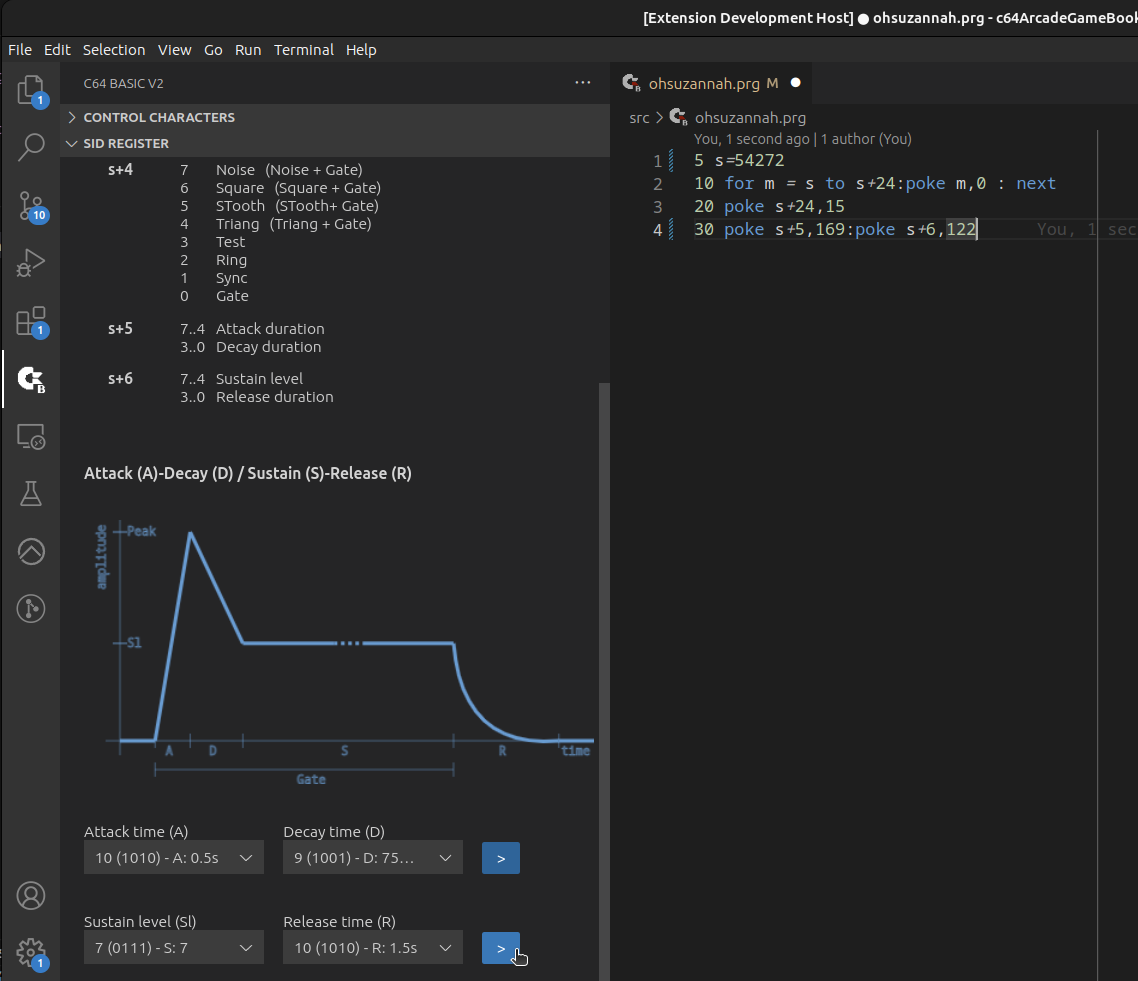
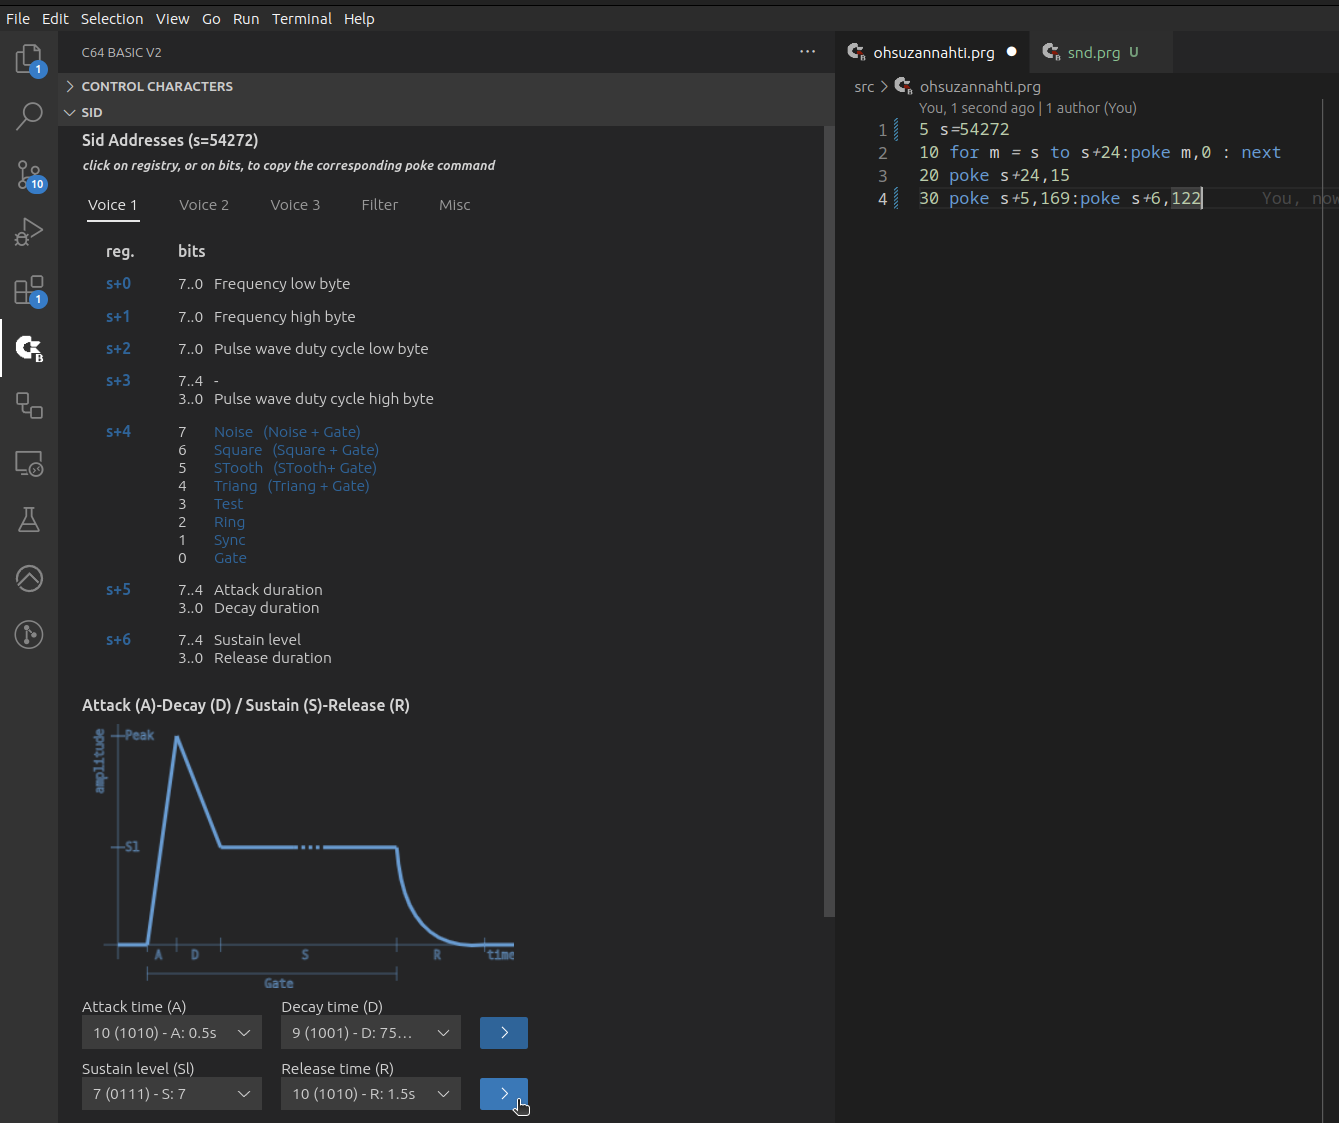
README editing

diff --git a/README.md b/README.md
@@ -1,8 +1,8 @@
 ![c64basicv2 logo](https://raw.githubusercontent.com/gverduci/c64basicv2/main/images/c64basicv2_logo.png)
 
 # **** COMMODORE 64 BASIC V2 **** (c64basicv2) Visual Studio Code Extension
-
-This extension helps you to write *Commodore 64 basic v2* programs (.prg or .bas extension). It provides you: syntax highlighting, snippets, file icons, a theme, tasks, rulers, commands, a control characters view, and a simple preview.
+## Introduction
+This extension helps you to write *Commodore 64 basic v2* programs (.prg or .bas extension). It provides you: syntax highlighting, snippets, file icons, a theme, tasks, rulers, commands, different views in the Primary Sidebar, and a simple preview.
 
 Rules for snippets come from the following pages of [C64-Wiki](https://www.c64-wiki.com/):
 - [BASIC](https://www.c64-wiki.com/wiki/BASIC#Overview_of_BASIC_Version_2.0_.28second_release.29_Commands) 
@@ -16,8 +16,8 @@ You might follow this process to develop your program:
         \src -> source programs
 
 2. write the program;
-3. test it with [Vice](https://vice-emu.sourceforge.io/) using the "Convert and Run" command;
-4. create a d64 image using the "created64.sh" script (see next sections of this README);
+3. test it with [Vice](https://vice-emu.sourceforge.io/) using the "Convert and Run" (F5) command;
+4. create a d64 image using the "created64.sh" script (see [Other usefull info and script](#other-usefull-info-and-script) sections of this README);
 5. use this d64 image with a sd2iec device;
 6. run it on the real c64 hardware.
 
@@ -37,17 +37,18 @@ npx yo c64basicv2
 
 The provided features are:
 
-- Syntax highlighting
-- Snippets for the main commands and control characters
+- [Syntax highlighting](#syntax-highlighting)
+- [Snippets for the main commands](#snippets)
+- [Snippets for control characters](#snippets-for-control-characters)
 - File icons
 - Theme
 - Rulers: 40th and 80th column
 - Tasks: suggested in this README
-- Command: Automatic Proofreader, Convert, Convert and Run
 - Keyboard Shortcuts
+- Command: Automatic Proofreader, Convert, Convert and Run
 - Control character view in the Primary Sidebar 
-- Sid info view (address and ADSR calculator) in the Primary Sidebar  
-- Code preview
+- Sid info view (address, ADSR calculator and notes) in the Primary Sidebar  
+- [Code preview](#code-preview)
 
 ### Syntax highlighting
 An example of syntax highlighting is:
@@ -65,9 +66,9 @@ Control characters in c64 basic are special characters like this:
 
 ![c64basicv2 logo](https://raw.githubusercontent.com/gverduci/c64basicv2/main/images/clrCtrlChar.png)
 
-Books and old magazines represent special characters using the symbolic syntax: {ctrl character name}. For example, the previous character is written with this syntax: {clr}.
+Books and old magazines represent special characters using a symbolic syntax: {ctrl character name}. For example, the previous character is written with this syntax: {clr}.
 
-If you use this control character in a print statement (print "{clr}"), c64 clears the screen.
+If you use this control character in a print statement (print "{clr}"), C64 clears the screen.
 
 You can find the list of control characters on this page: [Control character](https://www.c64-wiki.com/wiki/control_character).
 
@@ -126,22 +127,27 @@ Hit F1, search "Convert and Run" then hit enter.
 ### CHARACTER view on the Primary Sidebar 
 Using the Control characters view, you can visually add a control character:
 
-![c64basicv2 Control Characters View](https://raw.githubusercontent.com/gverduci/c64basicv2/main/images/c64basicv2_ctrlCharView.png)
+![c64basicv2 Control Characters View](images/c64basicv2_ctrlCharView.png)
 
 Click on the character to add the corresponding symbol in the code, or click on the number to add the chr$ command.
 
 The font is "Pet Me 64", released by [Kreative Korporation](https://www.kreativekorp.com/software/fonts/c64/).
 
-### SID REGISTER view (address and ADSR calculator) in the Primary Sidebar
-Using this view, you can show Sid registries and add the poke command directly in the code:
+### SID view (address, ADSR calculator and notes) in the Primary Sidebar
+Using this view, you can
+- (first section) show Sid registries and add the poke command directly in the code:
 
-![c64basicv2 Control Characters View](https://raw.githubusercontent.com/gverduci/c64basicv2/main/images/c64basicv2_sidRegView.png)
+![c64basicv2 Sid Registries](images/c64basicv2_sidRegView.png)
 
-The ADSR section allows you to select the desired envelope and add the calculated value in the code:
+- (section ADSR) select the desired envelope and add the calculated value in the code:
 
-![c64basicv2 Control Characters View](https://raw.githubusercontent.com/gverduci/c64basicv2/main/images/c64basicv2_sidADSRView)
+![c64basicv2 ADSR](images/c64basicv2_sidADSRView.png)
 
-### Preview
+- (section Notes) generate data for a melody:
+
+![c64basicv2 Notes](images/c64basicv2_sidNotesView.png)
+
+### Code Preview
 Using the preview button on the editor Toolbar, you can show a panel containing your code formatted like the C64 screen. This view is good for checking control characters.
 
 ![c64basicv2 Preview](https://raw.githubusercontent.com/gverduci/c64basicv2/main/images/c64basicv2_preview.png)
